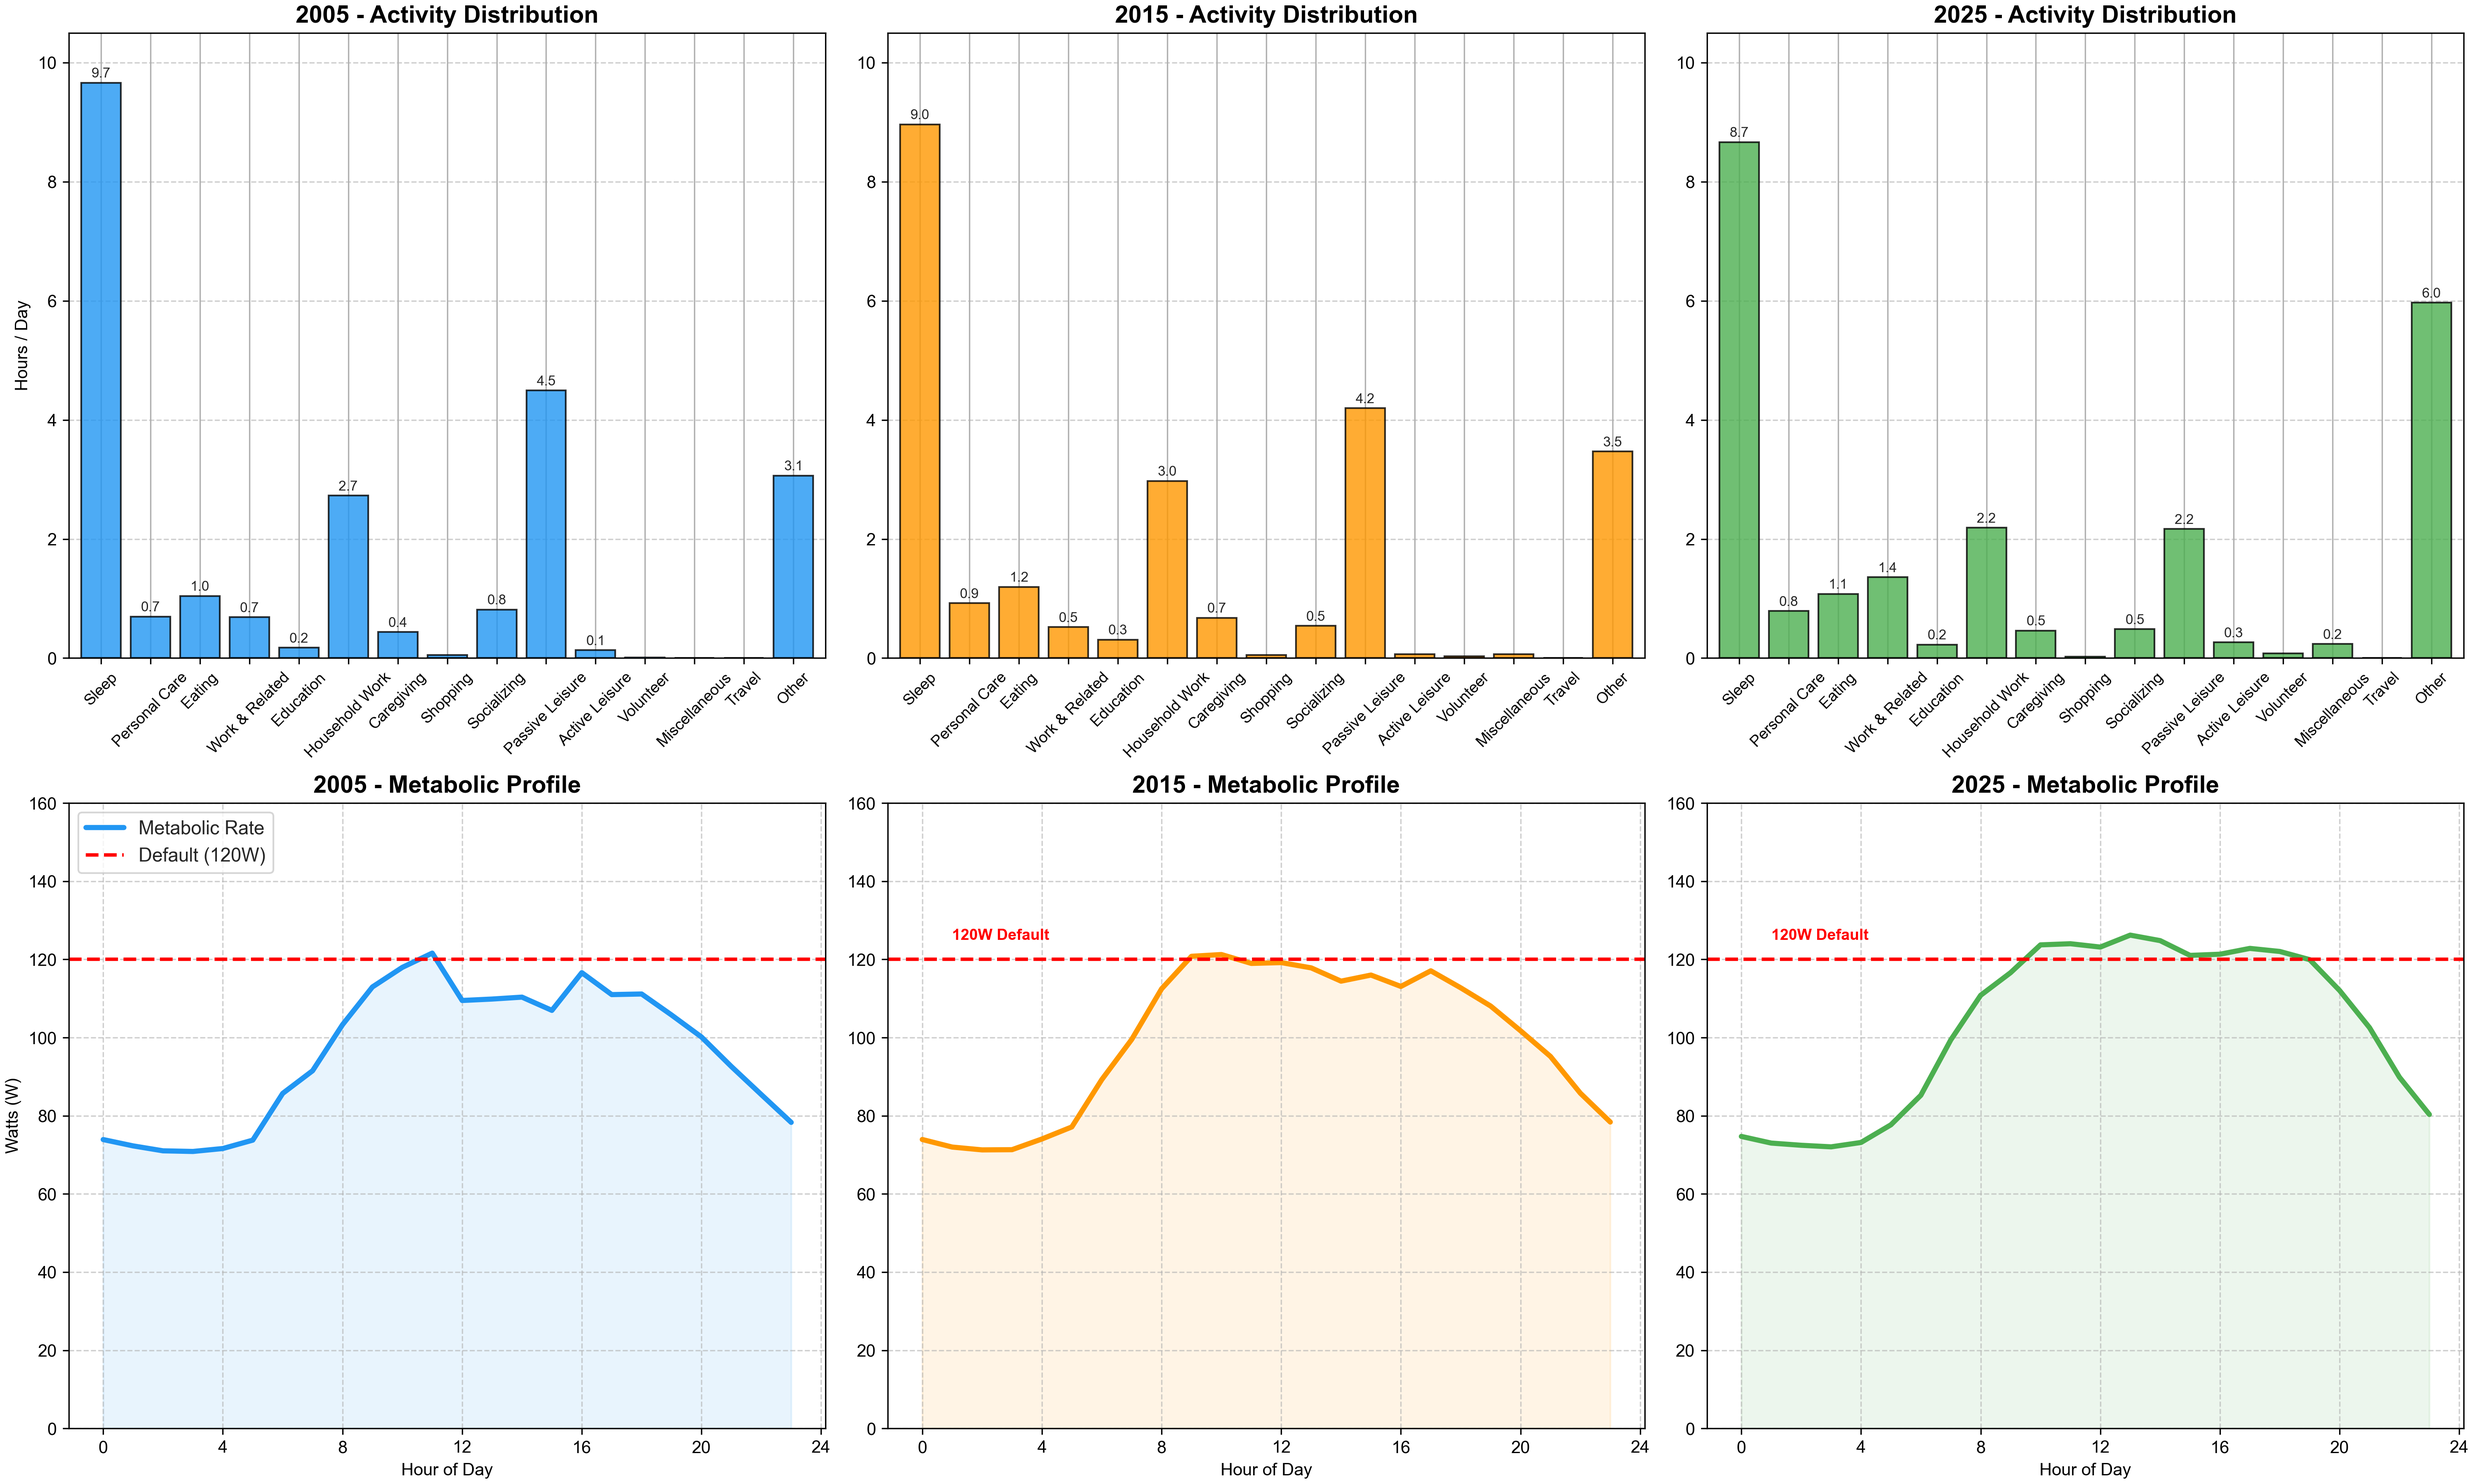
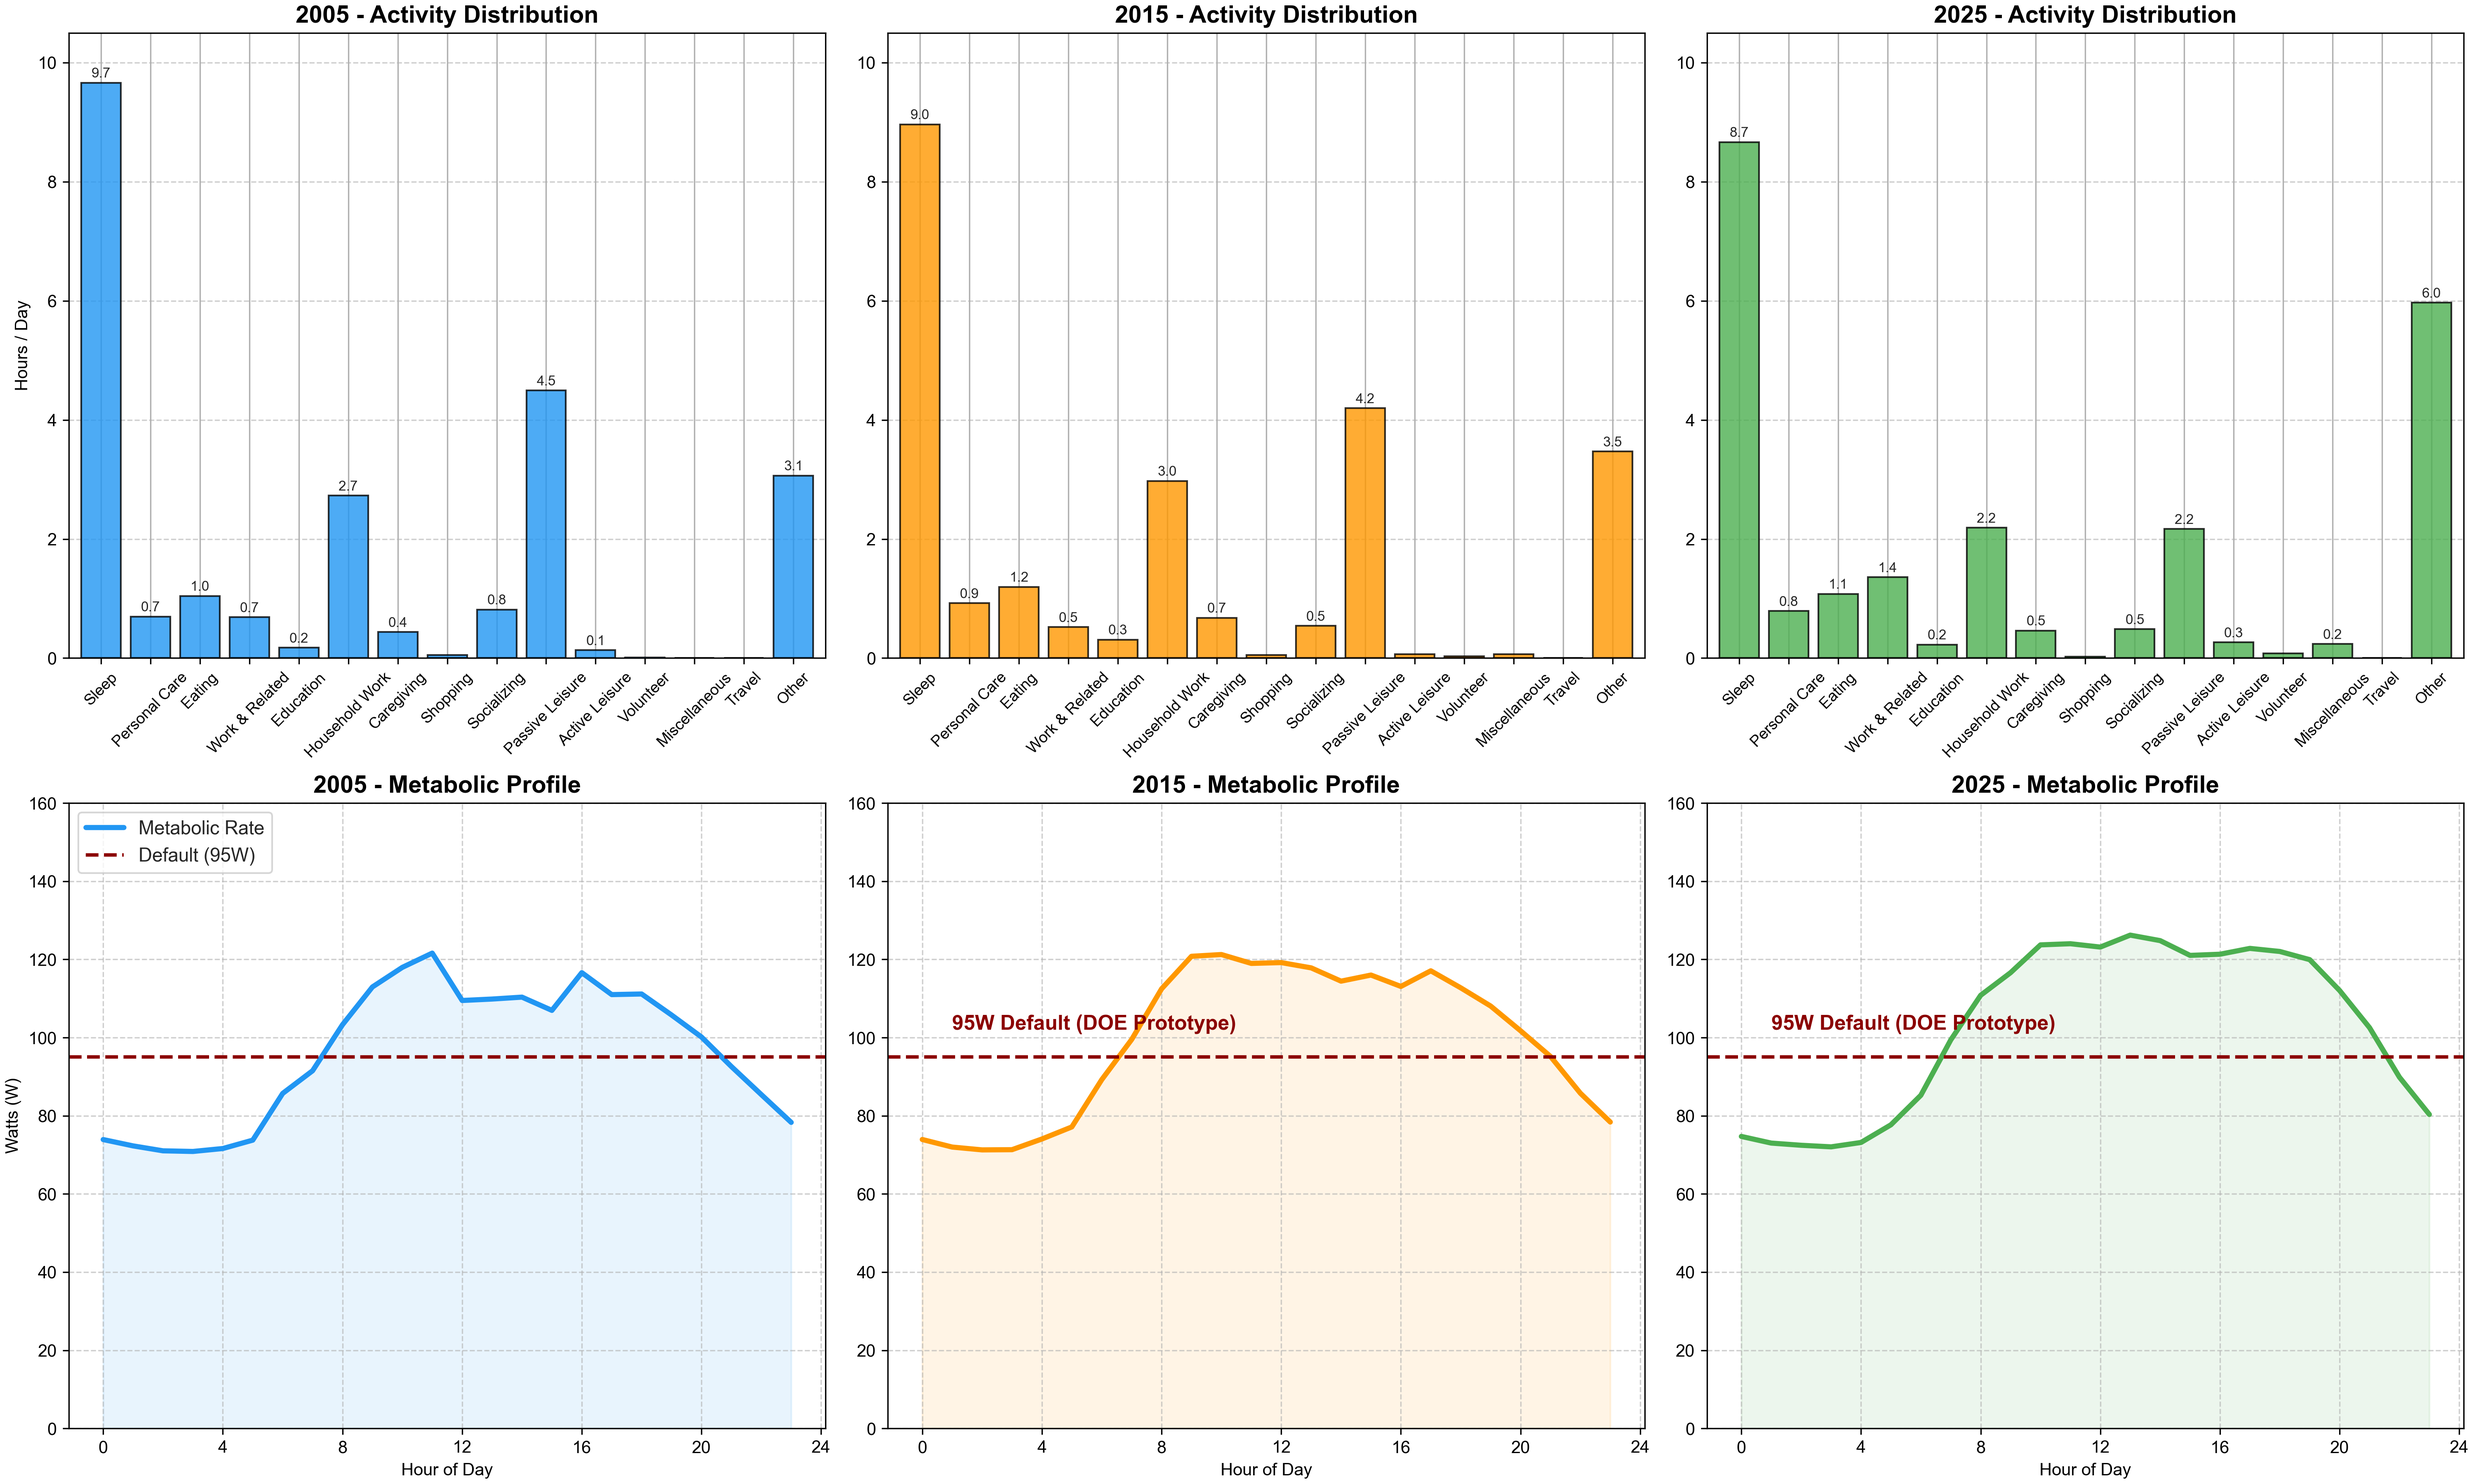
Refine occupancy plots: adjust grid alignment, labels, and x-tick formatting

diff --git a/occ_utils/plotting/plot_activity_metabolic_comparison.py b/occ_utils/plotting/plot_activity_metabolic_comparison.py
@@ -226,8 +226,8 @@ def main():
             # Fill under curve
             ax.fill_between(profile.index, profile.values, color=YEAR_COLORS[year], alpha=0.1)
             
-            # 120W Reference
-            ax.axhline(120, color='red', linestyle='--', linewidth=2, label='Default (120W)')
+            # 95W Reference
+            ax.axhline(95, color='darkred', linestyle='--', linewidth=2, label='Default (95W)')
             
             ax.set_title(f"{year} - Metabolic Profile", fontsize=14, fontweight='bold')
             ax.set_xlabel("Hour of Day")
@@ -239,7 +239,7 @@ def main():
             if i == 0:
                 ax.legend(loc='upper left', frameon=True)
             else:
-                ax.text(1, 125, "120W Default", color='red', fontsize=9, fontweight='bold')
+                ax.text(1, 102, "95W Default (DOE Prototype)", color='darkred', fontsize=12, fontweight='bold')
                 
         else:
              ax.text(0.5, 0.5, "No Data", ha='center')

diff --git a/occ_utils/plotting/plot_hhsize_occupancy.py b/occ_utils/plotting/plot_hhsize_occupancy.py
@@ -81,9 +81,8 @@ def generate_plot() -> None:
             grp = subset[subset["HHSIZE"] == size]
             stats = grp.groupby("Hour")["Occupancy_Schedule"].agg(["mean", "std"])
 
-            n_hh = hh_counts.get(size, 0)
             color = COLORS.get(size, "gray")
-            label = f"{LABELS.get(size, str(size))} (n={n_hh})"
+            label = f"{LABELS.get(size, str(size))}"
 
             # Plot Line
             ax.plot(hours, stats["mean"], color=color, linewidth=2.5, label=label)
